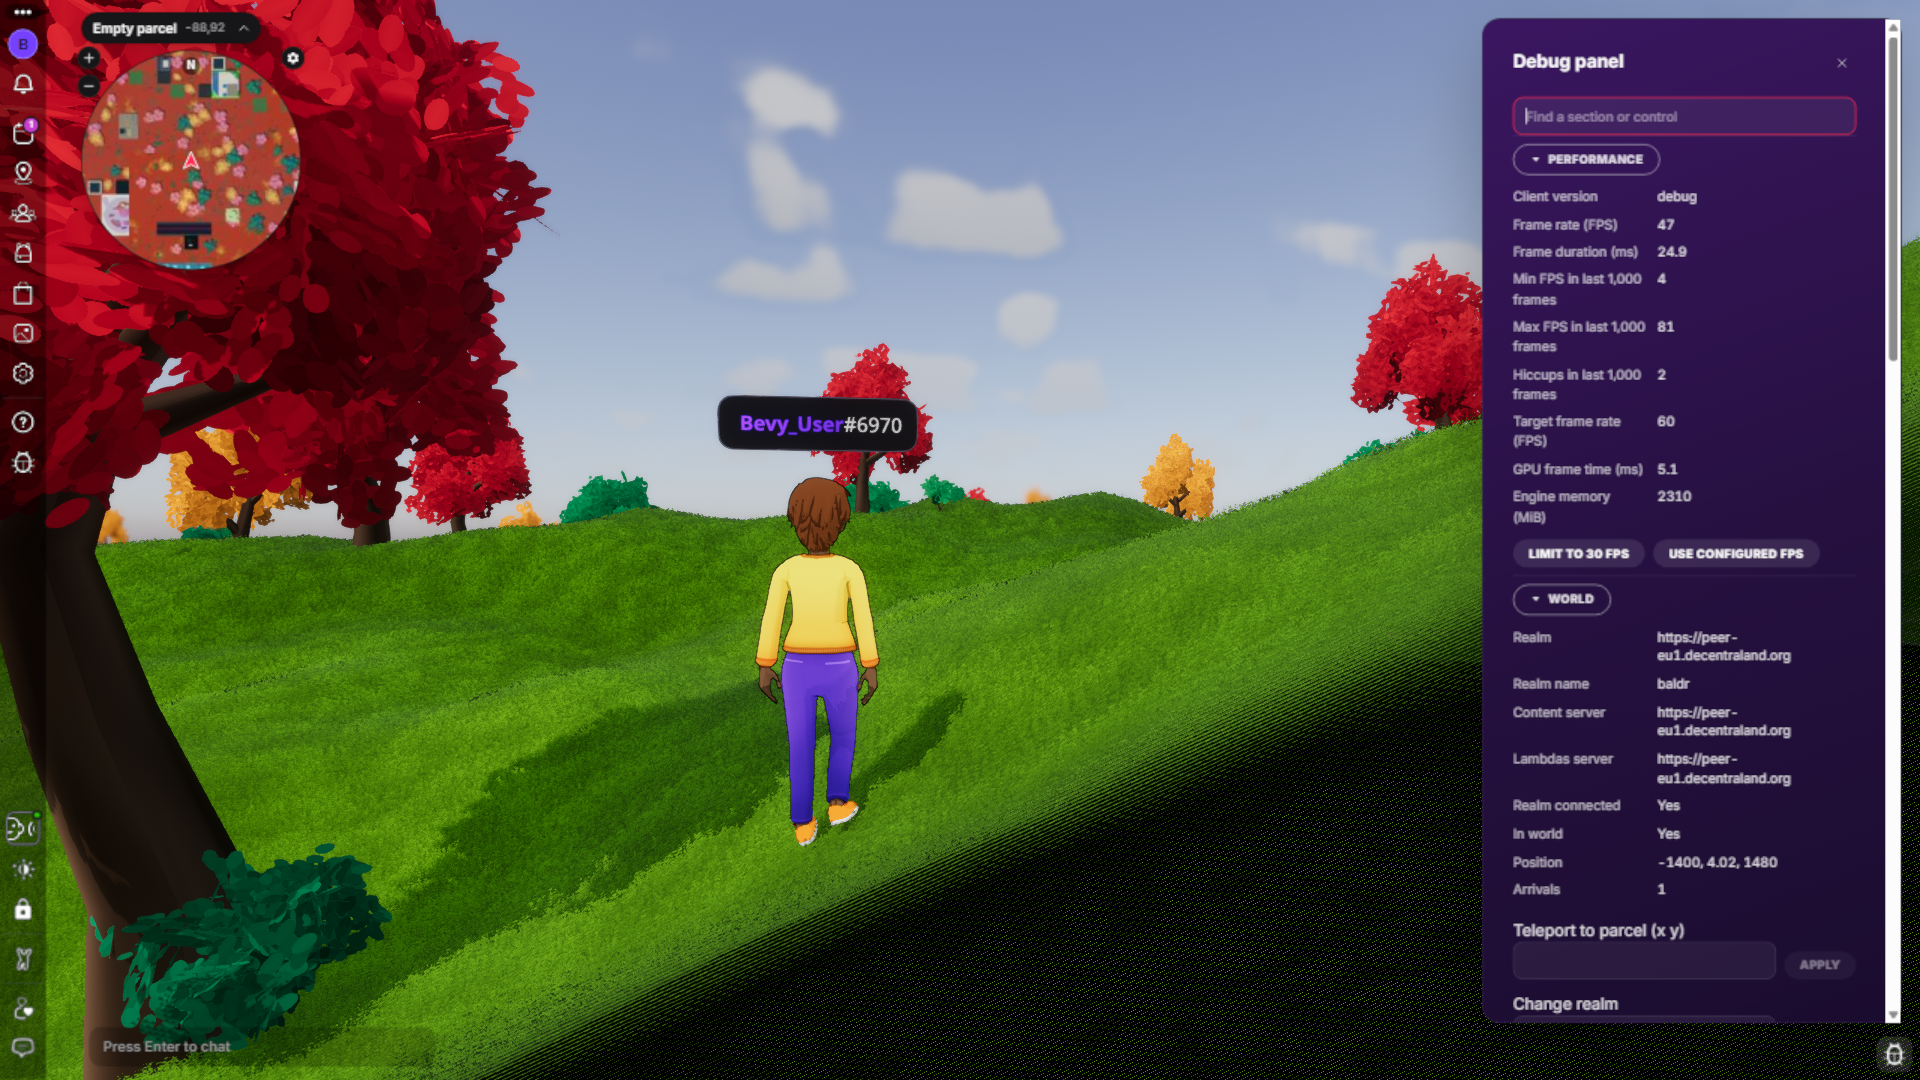
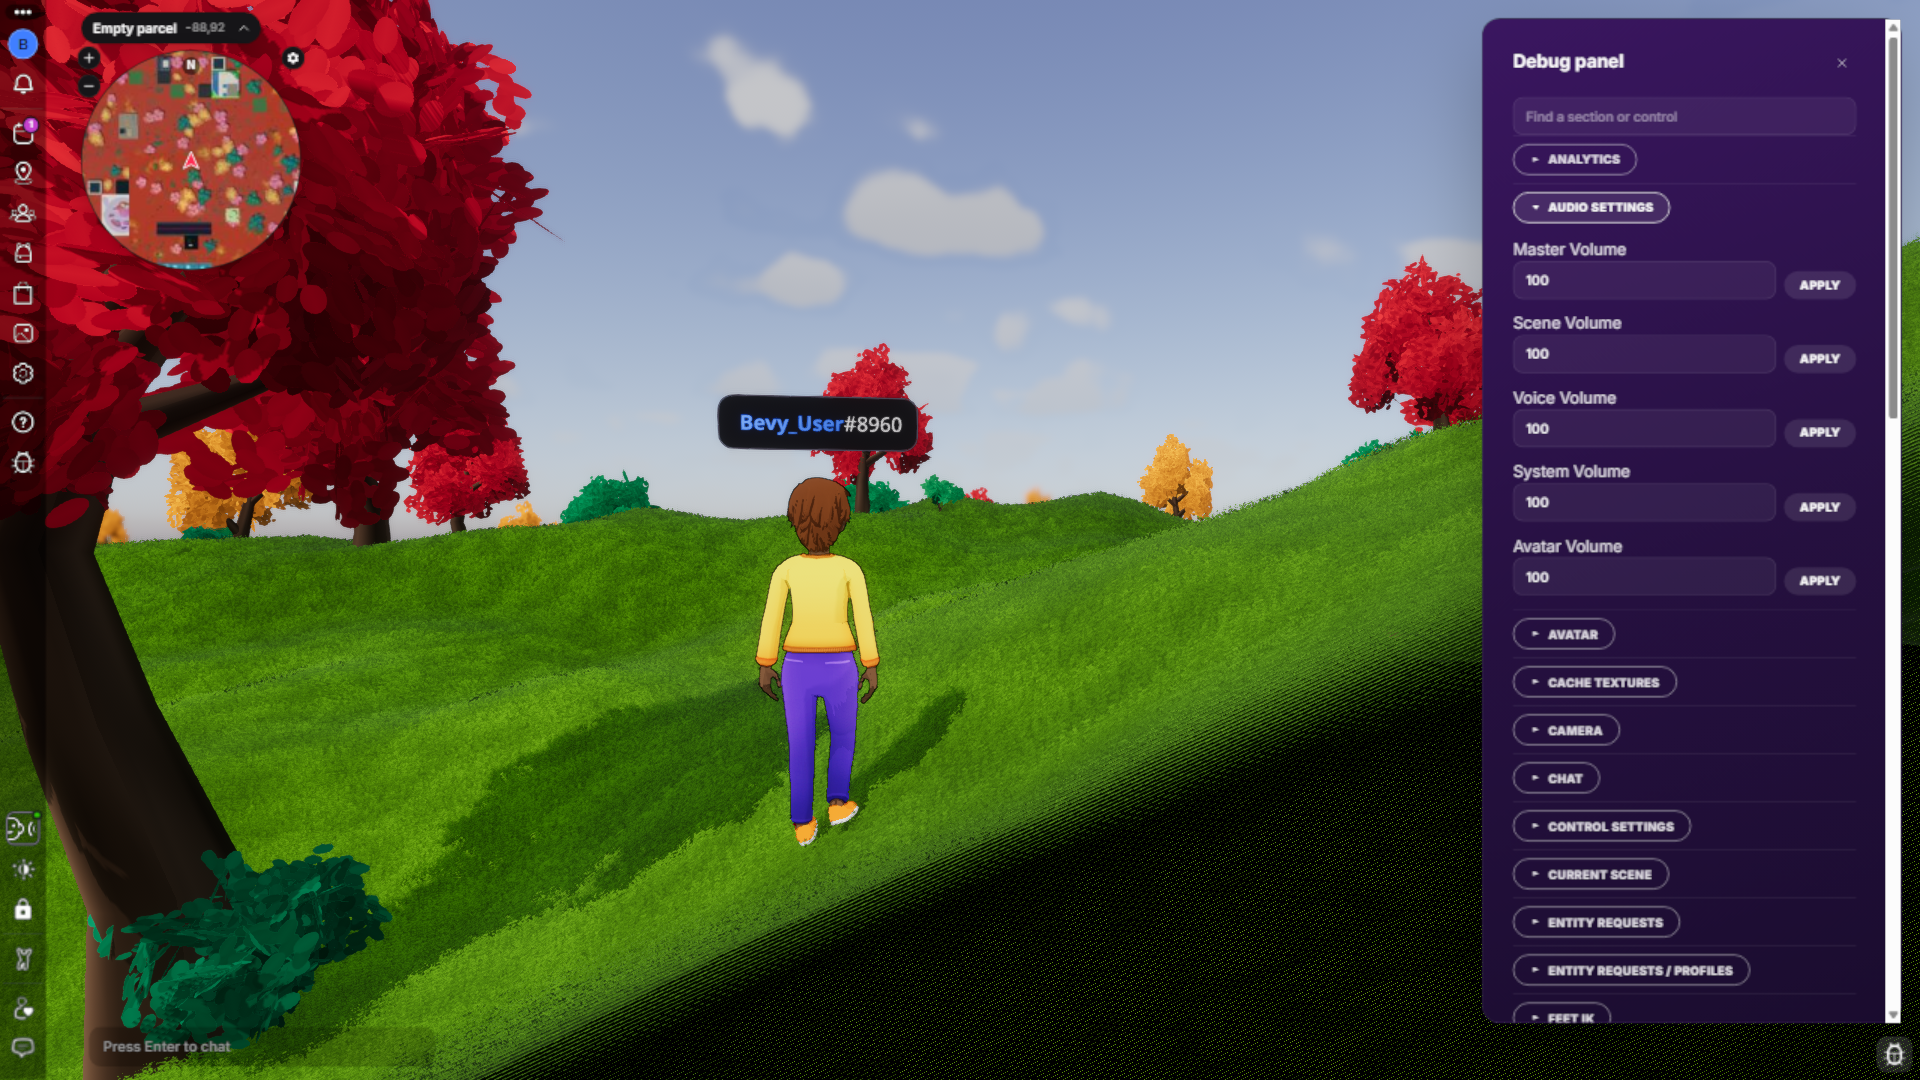
fix(explorer): keep debug sections in place when toggled

diff --git a/apps/ui3/src/play/test/debugPanel.test.tsx b/apps/ui3/src/play/test/debugPanel.test.tsx
@@ -53,7 +53,10 @@ it('discovers plugin sections, samples expanded sections and dispatches their ac
     expect(screen.getByRole('button', { name: 'Transport' })).toHaveAttribute('aria-expanded', 'false')
     expect(command.mock.calls).toEqual([['/debug_panel --dev-build'], ['/debug_panel']])
     const clock = screen.getByRole('button', { name: 'Clock' })
+    const sectionHeaders = () => screen.getAllByRole('button', { name: /^(Transport|Clock|Session)$/ })
+    const originalOrder = sectionHeaders()
     await act(async () => { fireEvent.click(clock) })
+    expect(sectionHeaders()).toEqual(originalOrder)
     expect(screen.getByText('1')).toBeInTheDocument()
     seconds = 2
     await act(async () => { await vi.advanceTimersByTimeAsync(1000) })
@@ -63,6 +66,7 @@ it('discovers plugin sections, samples expanded sections and dispatches their ac
     await act(async () => { await vi.advanceTimersByTimeAsync(1000) })
     expect(screen.getByText('12')).toBeInTheDocument()
     fireEvent.click(clock)
+    expect(sectionHeaders()).toEqual(originalOrder)
     command.mockClear()
     await act(async () => { await vi.advanceTimersByTimeAsync(3000) })
     expect(command).not.toHaveBeenCalled()

diff --git a/rendering/bevy-explorer/source/react-web/src/test/debugPanel.test.tsx b/rendering/bevy-explorer/source/react-web/src/test/debugPanel.test.tsx
@@ -53,7 +53,10 @@ it('discovers plugin sections, samples expanded sections and dispatches their ac
     expect(screen.getByRole('button', { name: 'Transport' })).toHaveAttribute('aria-expanded', 'false')
     expect(command.mock.calls).toEqual([['/debug_panel --dev-build'], ['/debug_panel']])
     const clock = screen.getByRole('button', { name: 'Clock' })
+    const sectionHeaders = () => screen.getAllByRole('button', { name: /^(Transport|Clock|Session)$/ })
+    const originalOrder = sectionHeaders()
     await act(async () => { fireEvent.click(clock) })
+    expect(sectionHeaders()).toEqual(originalOrder)
     expect(screen.getByText('1')).toBeInTheDocument()
     seconds = 2
     await act(async () => { await vi.advanceTimersByTimeAsync(1000) })
@@ -63,6 +66,7 @@ it('discovers plugin sections, samples expanded sections and dispatches their ac
     await act(async () => { await vi.advanceTimersByTimeAsync(1000) })
     expect(screen.getByText('12')).toBeInTheDocument()
     fireEvent.click(clock)
+    expect(sectionHeaders()).toEqual(originalOrder)
     command.mockClear()
     await act(async () => { await vi.advanceTimersByTimeAsync(3000) })
     expect(command).not.toHaveBeenCalled()

diff --git a/apps/ui3/src/play/features/debug/DebugPanel.tsx b/apps/ui3/src/play/features/debug/DebugPanel.tsx
@@ -211,7 +211,7 @@ function DebugPanel({ run, close, initial }: { run: RunCommand; close: () => voi
         !sections ? <p>Loading debug sections…</p> :
         sections.length === 0 ? <p>No plugins registered debug sections.</p> :
         matches?.length === 0 ? <p>No matching controls.</p> :
-          matches?.sort((a, b) => Number(isOpen(b)) - Number(isOpen(a))).map((section) =>
+          matches?.map((section) =>
             <SectionRow key={section.title} section={section} run={run} open={isOpen(section)} toggle={() => toggle(section)} />)}
     </ModalShell>
   )

diff --git a/rendering/bevy-explorer/source/react-web/src/features/debug/DebugPanel.tsx b/rendering/bevy-explorer/source/react-web/src/features/debug/DebugPanel.tsx
@@ -211,7 +211,7 @@ function DebugPanel({ run, close, initial }: { run: RunCommand; close: () => voi
         !sections ? <p>Loading debug sections…</p> :
         sections.length === 0 ? <p>No plugins registered debug sections.</p> :
         matches?.length === 0 ? <p>No matching controls.</p> :
-          matches?.sort((a, b) => Number(isOpen(b)) - Number(isOpen(a))).map((section) =>
+          matches?.map((section) =>
             <SectionRow key={section.title} section={section} run={run} open={isOpen(section)} toggle={() => toggle(section)} />)}
     </ModalShell>
   )

diff --git a/rendering/bevy-explorer/docs/guidelines/running.md b/rendering/bevy-explorer/docs/guidelines/running.md
@@ -88,7 +88,7 @@ The room, voice, rendering, media and avatar sections appear with the plugins th
 supply them. A missing reading displays **Unavailable**. Development-only mutations
 require preview mode. To add a section, follow the [plugin recipe](recipes.md#a-plugin-section-in-the-runtime-debug-panel).
 
-![Performance and World sections open in the Windows development build, with the bug button in the lower-right corner](runtime-debug-panel.png)
+![Audio settings expanded between Analytics and Avatar in the Windows development build, with the bug button in the lower-right corner](runtime-debug-panel.png)
 
 ## Test commands
 
